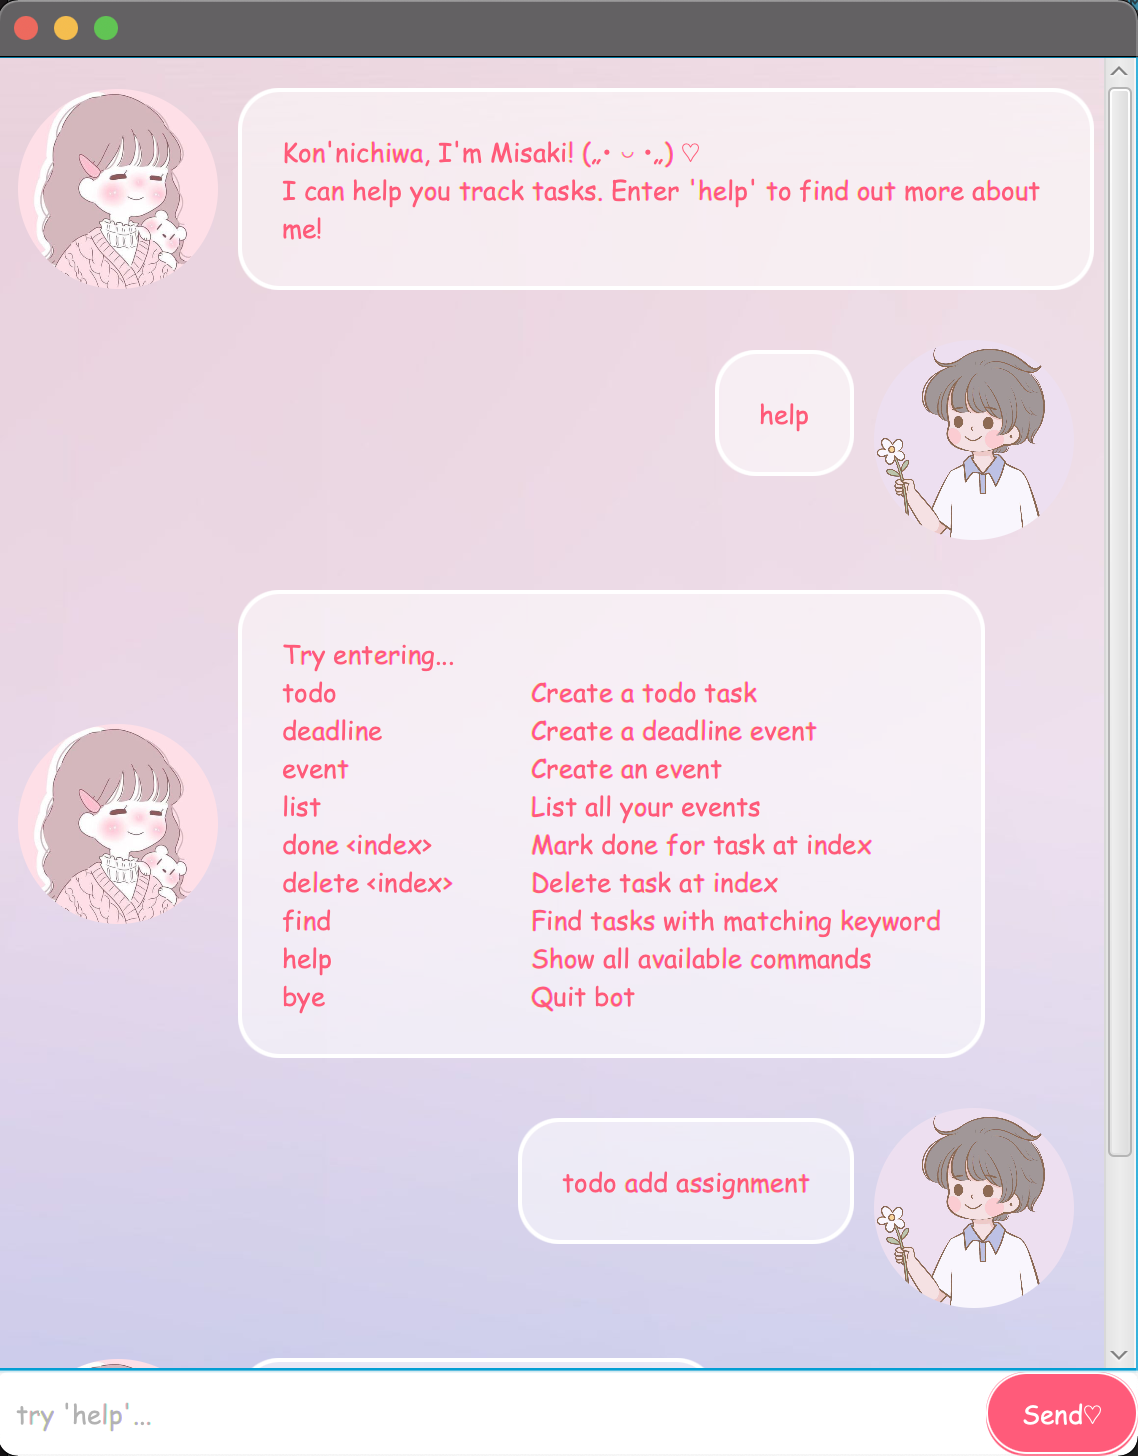
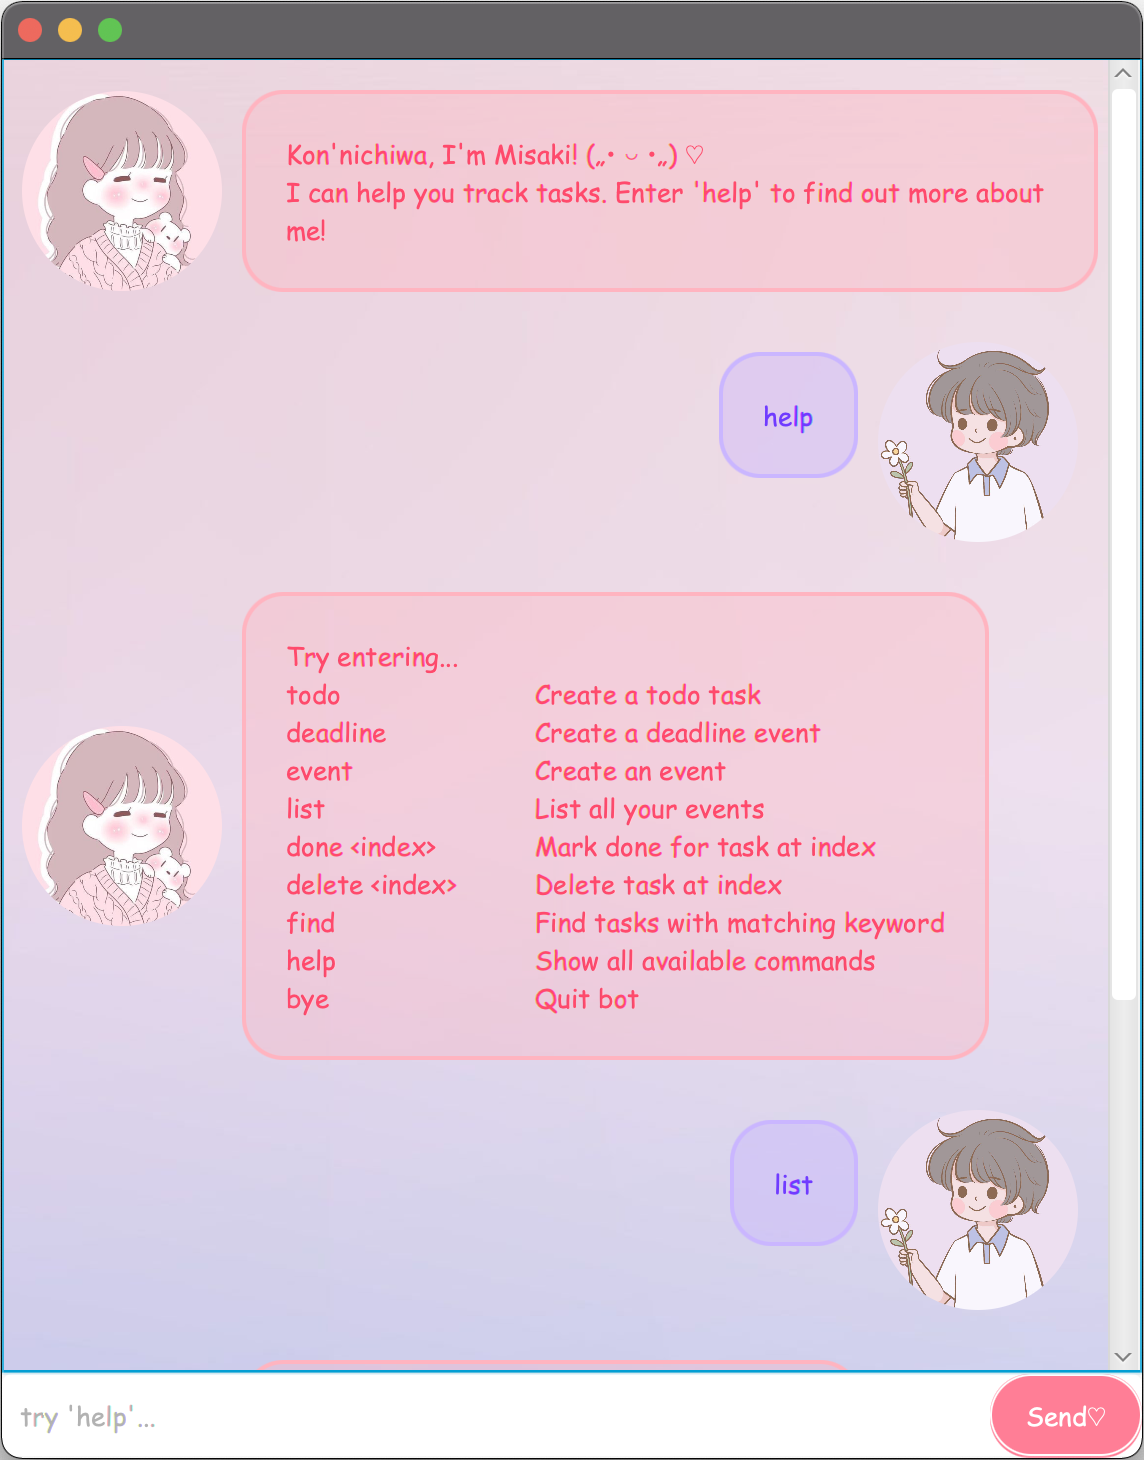
Better Ui

diff --git a/src/main/resources/style/style.css b/src/main/resources/style/style.css
@@ -5,32 +5,47 @@
     -fx-background-repeat: no-repeat;
 }
 
+.scroll-bar .thumb {
+    -fx-background-color: white;
+}
+
 .userInput {
     -fx-background-color: white;
     -fx-border-color: rgb(209, 240, 255);
     -fx-border-width: 0;
     -fx-border-radius: 5;
     -fx-background-radius: 5;
-    -fx-text-fill: #ff5b7a;
+    -fx-text-fill: rgb(113, 60, 255);
 }
 
 .sendBtn {
-    -fx-background-color: #ff5b7a;
+    -fx-background-color: rgba(255, 74, 108, 0.71);
     -fx-background-radius: 20px;
     -fx-border-color: white;
     -fx-border-radius: 20px;
     -fx-text-fill: white;
 }
 
-.textBox {
-    -fx-background-color: rgba(255, 255, 255, 0.53);
+.userTextBox {
+    -fx-background-color: rgba(202, 182, 255, 0.4);
     -fx-background-radius: 20px;
-    -fx-border-color: white;
+    -fx-border-color: rgb(202, 182, 255);
     -fx-border-width: 2;
     -fx-border-radius: 20px;
     -fx-padding: 20;
     -fx-max-height: Infinity;
-    -fx-text-fill: #ff5b7a;
+    -fx-text-fill: rgb(113, 60, 255);
+}
+
+.misakiTextBox {
+    -fx-background-color: rgba(255, 180, 192, 0.35);
+    -fx-background-radius: 20px;
+    -fx-border-color: rgb(255, 180, 192);
+    -fx-border-width: 2;
+    -fx-border-radius: 20px;
+    -fx-padding: 20;
+    -fx-max-height: Infinity;
+    -fx-text-fill: #ff4a6c;
 }
 
 .text-box:focused {

diff --git a/src/main/java/misaki/DialogBox.java b/src/main/java/misaki/DialogBox.java
@@ -36,9 +36,9 @@ public class DialogBox extends HBox {
      * @param text Text of dialog account.
      * @param img  Image of dialog account.
      */
-    private DialogBox(String text, Image img) {
+    private DialogBox(String text, Image img, String path) {
         try {
-            FXMLLoader fxmlLoader = new FXMLLoader(MainWindow.class.getResource("/view/DialogBox.fxml"));
+            FXMLLoader fxmlLoader = new FXMLLoader(MainWindow.class.getResource(path));
             fxmlLoader.setController(this);
             fxmlLoader.setRoot(this);
             fxmlLoader.load();
@@ -70,7 +70,7 @@ public class DialogBox extends HBox {
      * @return user dialog box.
      */
     public static DialogBox getUserDialog(String text, Image img) {
-        return new DialogBox(text, img);
+        return new DialogBox(text, img, "/view/UserDialogBox.fxml");
     }
 
     /**
@@ -81,7 +81,7 @@ public class DialogBox extends HBox {
      * @return Misaki dialog box.
      */
     public static DialogBox getMisakiDialog(String text, Image img) {
-        var db = new DialogBox(text, img);
+        var db = new DialogBox(text, img, "/view/MisakiDialogBox.fxml");
         db.flip();
         return db;
     }
